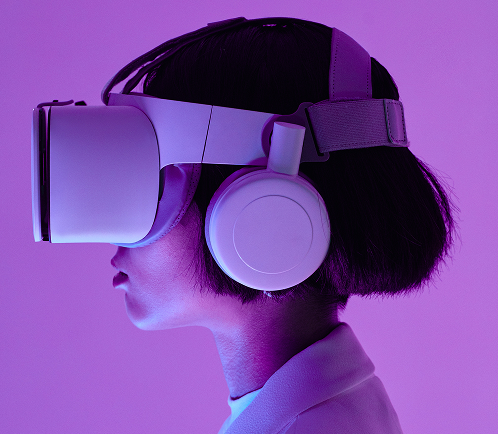
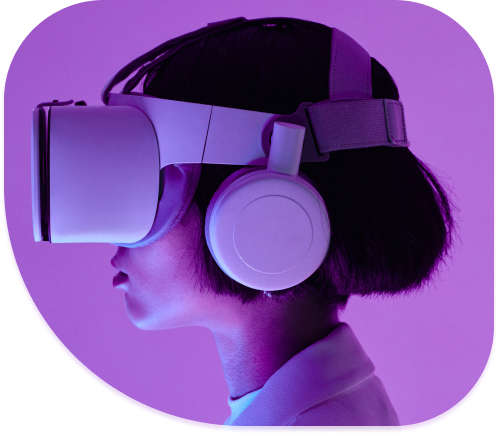
About Page added

diff --git a/src/components/About.jsx b/src/components/About.jsx
@@ -1,0 +1,35 @@
+import React from 'react'
+import image from '../assets/VRMASK.png'
+
+function About() {
+  return (
+    <>
+    <div className='px-30 pt-8 flex justify-between items-center bg-[#8176AF] gap-40'>
+        <div className='w-1/2'>
+        <img src={image} alt="VR image" className='rounded-4xl' />
+        </div>
+        <div className='w-1/2 pr-10 space-y-5 text-white'>
+            <h2 className='text-4xl font-bold'>ABOUT</h2>
+            <h2 className='text-4xl'>HYDRA VR</h2>
+            <h2>Eget mi proin sed libero enim sed faucibus turpis. Nisl rhoncus mattis rhoncus 
+urna neque viverra justo. Vivamus at augue eget arcu dictum. Ultrices gravida 
+dictum fusce ut placerat orci. Aenean et tortor at risus viverra adipiscing at in. 
+Mattis aliquam faucibus purus in massa. Est placerat in egestas erat imperdiet 
+sed. Consequat semper viverra nam libero justo laoreet sit amet. Aliquam 
+etiam erat velit scelerisque in dictum non consectetur a. Laoreet sit amet 
+cursus sit amet. Vel eros donec ac odio tempor orci dapibus. Sem nulla pha
+retra diam sit amet nisl suscipit adipiscing bibendum. Leo a diam sollicitudi
+n tempor.</h2>
+            <div>
+            <button className='font-bold rounded-full px-6 py-2 bg-[#C0B7E8] text-black'>Let's Get in Touch</button>
+            </div>
+        </div>
+        
+    </div>
+
+    
+    </>
+  )
+}
+
+export default About

diff --git a/src/components/Home.jsx b/src/components/Home.jsx
@@ -6,14 +6,14 @@ function Home() {
     <>
     <div className='px-30 pt-8 flex justify-between items-center bg-[#8176AF] gap-40'>
         <div className='w-1/2 pr-10 space-y-5'>
-            <h2 className='text-6xl font-bold'><span className='text-[#C0B7E8]'>Dive </span>into the depth of <span className='text-[#C0B7E8]'>Virtual Reality</span></h2>
-            <h2>Lorem ipsum dolor sit amet, consectetur adipiscing elit, sed do eiusmod tempor incididunt ut labore et dolore nisl tincidunt eget. Lectus mauris eros in vitae .</h2>
+            <h2 className='text-6xl font-bold text-white'><span className='text-[#C0B7E8]'>Dive </span>into the depth of <span className='text-[#C0B7E8]'>Virtual Reality</span></h2>
+            <h2 className='text-white'>Lorem ipsum dolor sit amet, consectetur adipiscing elit, sed do eiusmod tempor incididunt ut labore et dolore nisl tincidunt eget. Lectus mauris eros in vitae .</h2>
             <div>
             <button className='font-bold rounded-full px-6 py-2 bg-[#C0B7E8]'>Build Your World</button>
             </div>
         </div>
         <div className='w-1/2'>
-        <img src={image} alt="VR image" className='rounded-4xl' />
+        <img src={image} alt="VR image"  />
         </div>
     </div>
 

diff --git a/src/App.jsx b/src/App.jsx
@@ -1,5 +1,6 @@
 import Navbar from "./components/Navbar"
 import Home from './components/Home'
+import About from "./components/About"
 
 function App() {
  
@@ -8,6 +9,7 @@ function App() {
     <>
       <Navbar />
       <Home />
+      <About />
     </>
   )
 }
